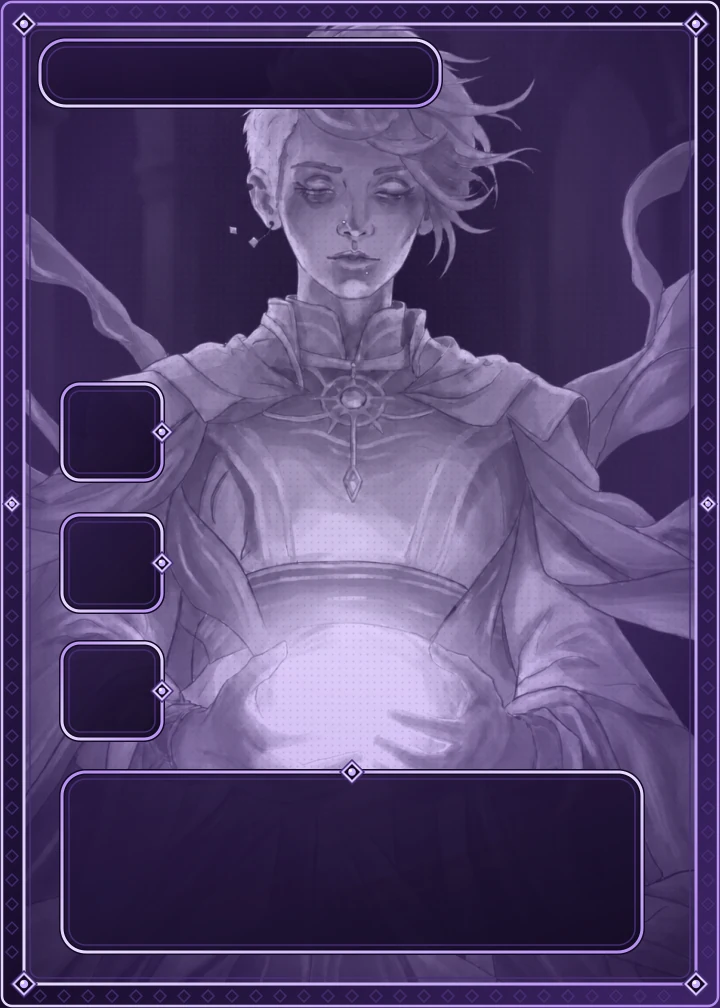
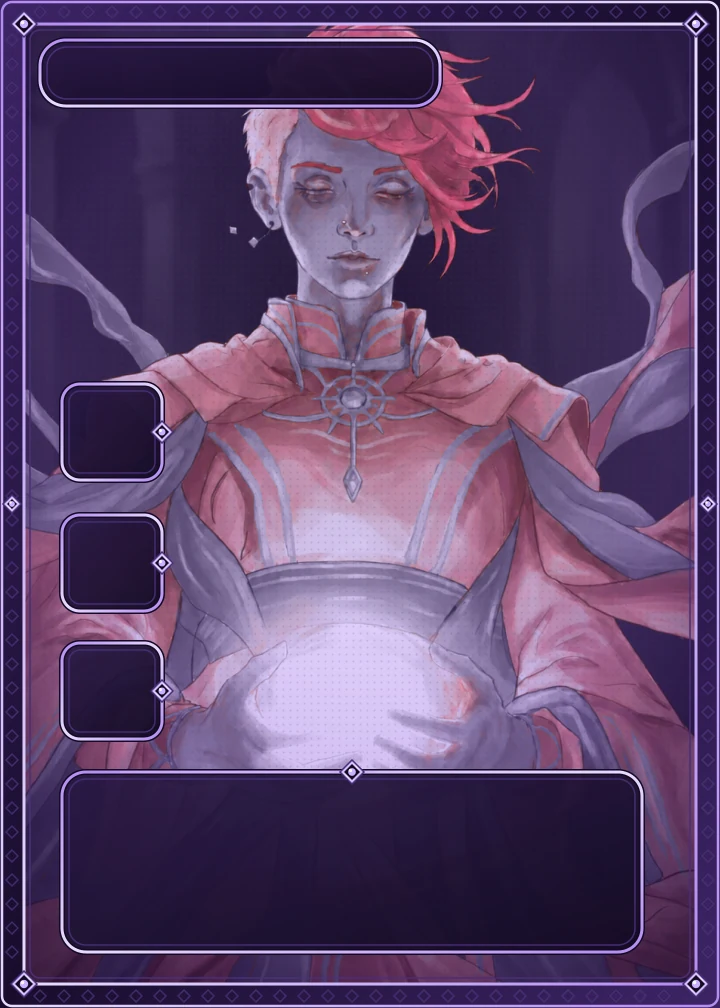
Mirjam: Pink bleibt in jeder Seltenheit erhalten
- scripts/card-frame.js: Option --keep-hue=<von>-<bis> lässt einen Farbton beim Einfärben
  der Seltenheit in Originalfarbe stehen (weiche Übergänge nach Sättigung)
- Mirjam, the Gracebringer neu erzeugt mit --keep-hue=290-355: Haare und Robe pink

diff --git a/scripts/card-frame.js b/scripts/card-frame.js
@@ -8,9 +8,13 @@
 //
 // node scripts/card-frame.js <bild> <seltenheit> <ziel.webp> [vorschau.png] [--spell]
 // --spell: Karte ohne Werte (Hunde wie Hugo und Lilly) – keine Wertefenster, größeres Textfenster (Rahmen „rar-<s>-spell“)
+// --keep-hue=<von>-<bis>: dieser Farbton (Grad, 0–360) bleibt in jeder Seltenheit in Originalfarbe stehen, z. B. das Pink
+//   von Mirjam, the Gracebringer (--keep-hue=290-355). Weiche Übergänge nach Sättigung und Abstand zum Farbbereich.
 const sharp = require('sharp');
 const SPELL = process.argv.includes('--spell');
-const [SRC, RARITY, DEST, PREVIEW] = process.argv.slice(2).filter((a) => a !== '--spell');
+const KEEP = (process.argv.find((a) => a.startsWith('--keep-hue=')) || '').slice(11).split('-').map(Number);
+const KEEP_HUE = KEEP.length === 2 && KEEP.every(Number.isFinite) ? KEEP : null;
+const [SRC, RARITY, DEST, PREVIEW] = process.argv.slice(2).filter((a) => !a.startsWith('--'));
 const W = 720;
 const H = 1008;
 
@@ -45,6 +49,7 @@ async function art() {
   } else {
     buf = await base.clone().modulate({ brightness: S.brightness, saturation: S.saturation }).png().toBuffer();
   }
+  if (KEEP_HUE) buf = await keepHue(buf, base);
   if (RARITY === 'glitch') {
     // verschobene Bildstreifen (Glitch): einige waagerechte Bänder seitlich versetzt
     const bands = [[178, 22, 18], [262, 10, -26], [318, 14, 14], [446, 26, -12], [520, 8, 30], [612, 18, -20]];
@@ -52,6 +57,33 @@ async function art() {
     buf = await sharp(buf).composite(layers).png().toBuffer();
   }
   return buf;
+}
+
+/** Bereiche im Farbton KEEP_HUE aus dem Originalbild über das eingefärbte Motiv legen (Deckkraft nach Sättigung) */
+async function keepHue(buf, base) {
+  const orig = await base.clone().removeAlpha().raw().toBuffer();
+  const tinted = await sharp(buf).removeAlpha().raw().toBuffer();
+  const [from, to] = KEEP_HUE;
+  const FEATHER = 15; // Grad weicher Rand um den Farbbereich
+  const out = Buffer.alloc(W * H * 3);
+  for (let i = 0; i < W * H; i++) {
+    const r = orig[i * 3] / 255;
+    const g = orig[i * 3 + 1] / 255;
+    const b = orig[i * 3 + 2] / 255;
+    const max = Math.max(r, g, b);
+    const min = Math.min(r, g, b);
+    const d = max - min;
+    let a = 0;
+    if (d > 0 && max > 0.12) {
+      let h = max === r ? ((g - b) / d) % 6 : max === g ? (b - r) / d + 2 : (r - g) / d + 4;
+      h = (h * 60 + 360) % 360;
+      const dist = h >= from && h <= to ? 0 : Math.min(Math.abs(h - from), Math.abs(h - to), 360 - Math.abs(h - from), 360 - Math.abs(h - to));
+      const sat = d / max;
+      a = Math.max(0, 1 - dist / FEATHER) * Math.min(1, Math.max(0, (sat - 0.15) / 0.25));
+    }
+    for (let c = 0; c < 3; c++) out[i * 3 + c] = Math.round(tinted[i * 3 + c] * (1 - a) + orig[i * 3 + c] * a);
+  }
+  return sharp(out, { raw: { width: W, height: H, channels: 3 } }).png().toBuffer();
 }
 
 // ---------- Rahmen und Effekte (SVG) ----------
